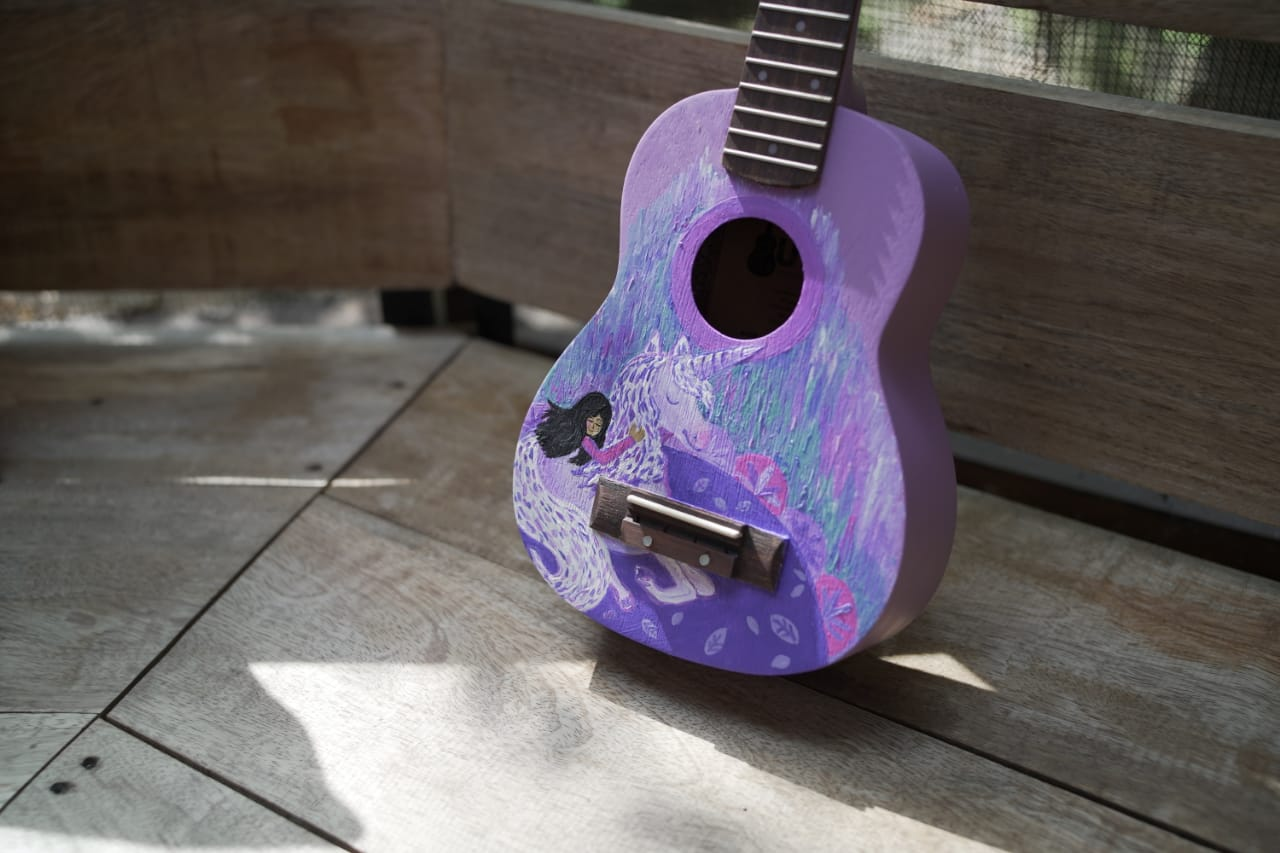
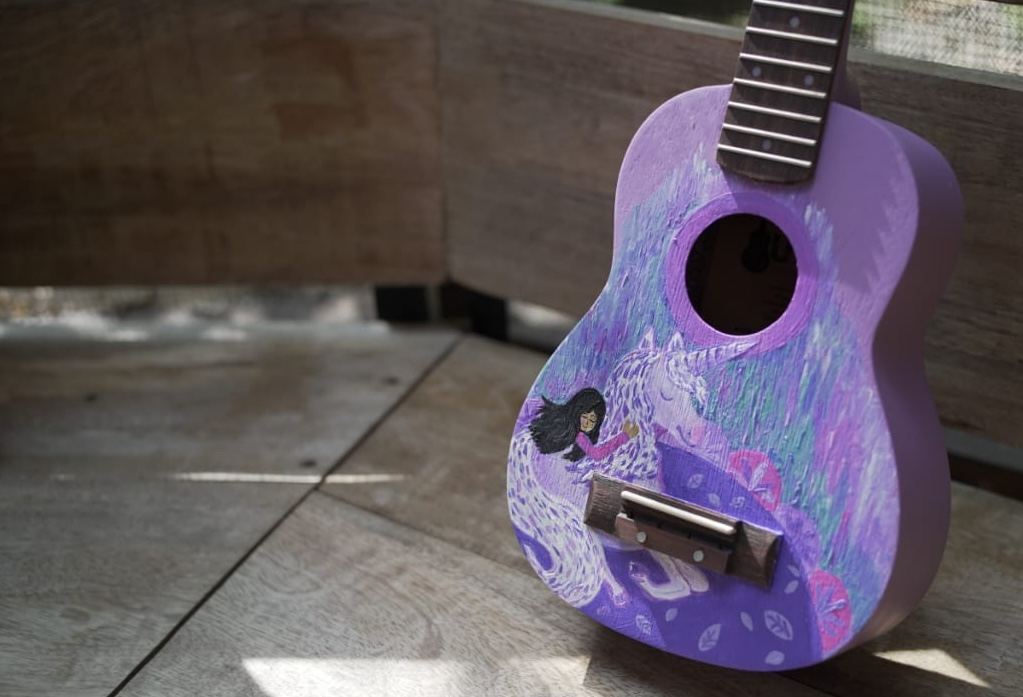
home showed background unicorn ukulele

diff --git a/src/pages/Home.jsx b/src/pages/Home.jsx
@@ -1,46 +1,57 @@
 import { Link } from "react-router-dom";
+import unicornUkulele from "../assets/ukulele/unicorn-ukulele.jpg";
 
 const pages = [
-  { title: "Shop",     path: "/shop",     icon: "🎸" },
-  { title: "Community",     path: "/community",     icon: "📰" },
+  { title: "Shop", path: "/shop", icon: "🎸" },
+  { title: "Community", path: "/community", icon: "📰" },
   { title: "Events", path: "/events", icon: "🎶" },
-  { title: "Q&A",      path: "/qna",      icon: "❓" },
-  { title: "About",    path: "/about",    icon: "ℹ" },
-  { title: "Contact",  path: "/contact",  icon: "☎" },
+  { title: "Q&A", path: "/qna", icon: "❓" },
+  { title: "About", path: "/about", icon: "ℹ" },
+  { title: "Contact", path: "/contact", icon: "☎" },
 ];
 
 export default function Home() {
   return (
     <>
       {/* HERO */}
-      <section className="flex min-h-[60vh] items-center justify-center bg-primary/[0.05] px-4">
-        <div className="text-center">
-          <h1 className="mb-4 text-4xl font-black tracking-tight text-primary">
-            Selamat Datang di UKUiki <br />
-          </h1>
-          <p className="mx-auto mb-6 max-w-md text-gray-600">
-            Lorem, ipsum dolor sit amet consectetur adipisicing elit. Reiciendis, aliquam rem eum omnis maxime earum modi, atque necessitatibus sapiente a voluptates perferendis sed dolore tempore temporibus quis vero commodi numquam.
-          </p>
-          <div className="flex justify-center gap-4">
-            <Link
-              to="/shop"
-              className="rounded-full bg-primary px-6 py-3 text-white shadow hover:bg-primary-dark"
-            >
-              Lihat Ukulele
-            </Link>
-            <Link
-              to="/workshop"
-              className="rounded-full bg-primary-light/10 px-6 py-3 text-primary hover:bg-primary-light/20"
-            >
-              Jadwal Workshop
-            </Link>
+      <section
+        className="relative flex min-h-[70vh] items-center bg-cover bg-center px-4"
+        style={{ backgroundImage: `url(${unicornUkulele})` }}
+      >
+        {/* Overlay */}
+        <div className="absolute inset-0 "></div>
+
+        {/* Konten kiri */}
+        <div className="relative z-10 mx-auto max-w-6xl w-full">
+          <div className="w-full max-w-lg text-white">
+            <h1 className="mb-4 text-5xl font-black drop-shadow">UKUiki</h1>
+            <p className="mb-6 text-lg text-white/90 drop-shadow">
+              Komunitas ukulele Indonesia yang seru dan kreatif. Temukan ukulele
+              impianmu & ikuti kegiatan seru bersama kami!
+            </p>
+            <div className="flex flex-wrap gap-4">
+              <Link
+                to="/shop"
+                className="rounded-full bg-white px-6 py-3 text-primary font-semibold shadow hover:bg-gray-100"
+              >
+                Lihat Ukulele
+              </Link>
+              <Link
+                to="/events"
+                className="rounded-full bg-primary-light/20 px-6 py-3 text-white hover:bg-primary-light/30"
+              >
+                Jadwal Event
+              </Link>
+            </div>
           </div>
         </div>
       </section>
 
       {/* MENU PAGES */}
       <section className="mx-auto mt-12 max-w-6xl px-4 pb-12">
-        <h2 className="mb-6 text-2xl font-bold text-primary">Jelajahi Halaman</h2>
+        <h2 className="mb-6 text-2xl font-bold text-primary">
+          Jelajahi Halaman
+        </h2>
 
         <div className="grid gap-6 sm:grid-cols-2 lg:grid-cols-3">
           {pages.map((p) => (
